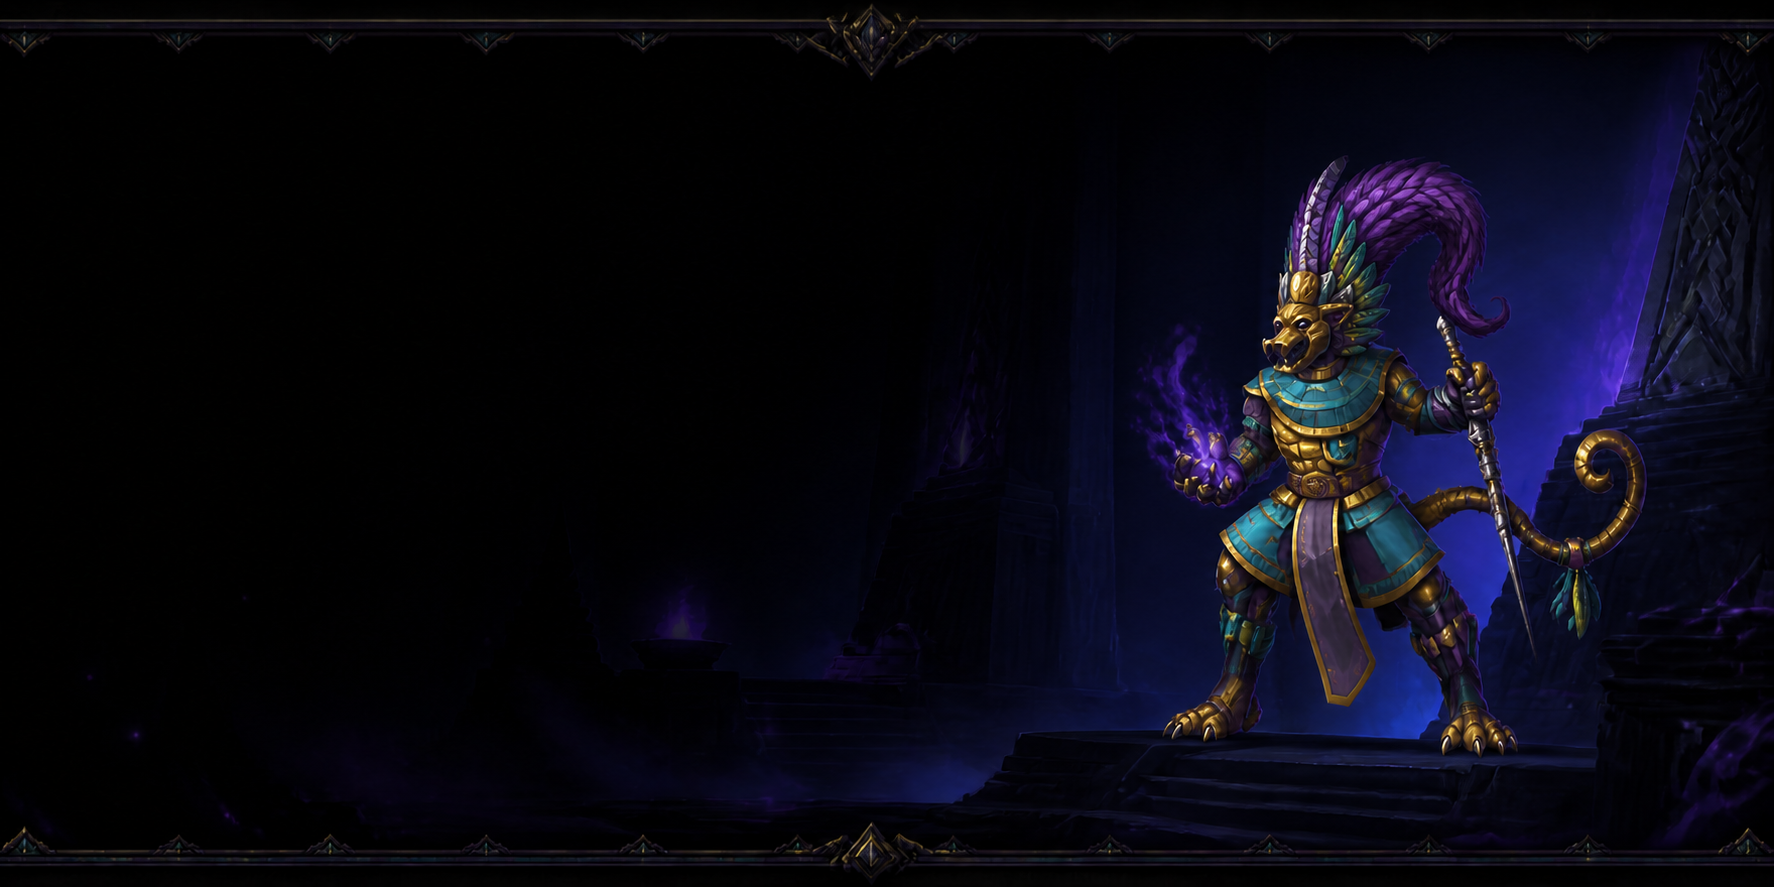
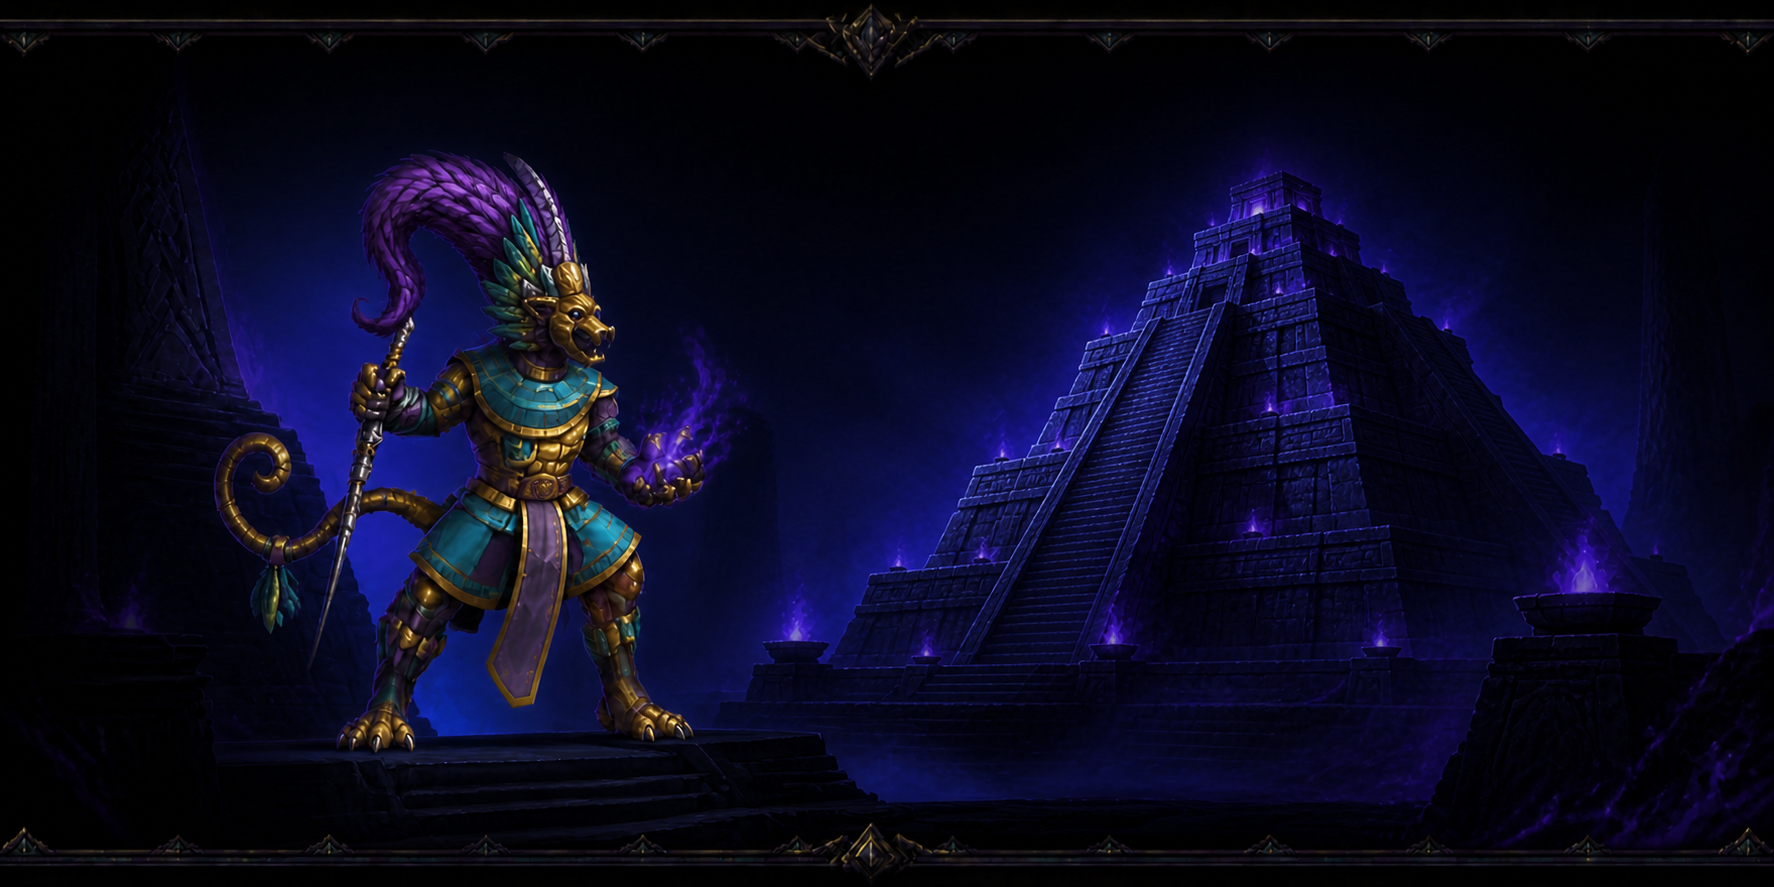
Recompose Tezcatlipoca and Ice King backgrounds

diff --git a/Margonem-Crimson-Character-Backgrounds.user.js b/Margonem-Crimson-Character-Backgrounds.user.js
@@ -1,7 +1,7 @@
 // ==UserScript==
 // @name         Margonem Crimson - Tła postaci
 // @namespace    https://github.com/bSlawek-03/Margonem-Crimson
-// @version      4.3.0
+// @version      4.4.0
 // @description  Panel do przypisywania RAW tła do postaci Margonem.
 // @author       Slawek
 // @match        https://*.margonem.pl/*
@@ -15,7 +15,7 @@
 (() => {
   'use strict';
 
-  const STORAGE_KEY = 'margonem-crimson-character-backgrounds-v5';
+  const STORAGE_KEY = 'margonem-crimson-character-backgrounds-v6';
 
   const characters = [
     { key: 'fourhead', label: 'Fourhead', level: '114', slot: 1 },
@@ -29,12 +29,12 @@
   const knownCharacters = characters.map((item) => item.key);
 
   const defaultUrls = {
-    fourhead: 'https://raw.githubusercontent.com/bSlawek-03/Margonem-Crimson/main/assets/titan-renegat-baulus-background.png',
-    twohead: 'https://raw.githubusercontent.com/bSlawek-03/Margonem-Crimson/main/assets/crimson-archdemon-background.png',
-    onehawk: 'https://raw.githubusercontent.com/bSlawek-03/Margonem-Crimson/main/assets/titan-versus-zoons-background.png',
-    threebane: 'https://raw.githubusercontent.com/bSlawek-03/Margonem-Crimson/main/assets/titan-lowcz-driady-background.png',
-    fivefang: 'https://raw.githubusercontent.com/bSlawek-03/Margonem-Crimson/main/assets/titan-tezcatlipoca-background.png',
-    'po prostu slawek': 'https://raw.githubusercontent.com/bSlawek-03/Margonem-Crimson/main/assets/titan-ice-king-background.png'
+    fourhead: 'https://raw.githubusercontent.com/bSlawek-03/Margonem-Crimson/main/assets/titan-renegat-baulus-background.png?v=4',
+    twohead: 'https://raw.githubusercontent.com/bSlawek-03/Margonem-Crimson/main/assets/crimson-archdemon-background.png?v=4',
+    onehawk: 'https://raw.githubusercontent.com/bSlawek-03/Margonem-Crimson/main/assets/titan-versus-zoons-background.png?v=4',
+    threebane: 'https://raw.githubusercontent.com/bSlawek-03/Margonem-Crimson/main/assets/titan-lowcz-driady-background.png?v=4',
+    fivefang: 'https://raw.githubusercontent.com/bSlawek-03/Margonem-Crimson/main/assets/titan-tezcatlipoca-background.png?v=4',
+    'po prostu slawek': 'https://raw.githubusercontent.com/bSlawek-03/Margonem-Crimson/main/assets/titan-ice-king-background.png?v=4'
   };
 
   const defaults = Object.fromEntries(characters.map((item) => [item.key, {
